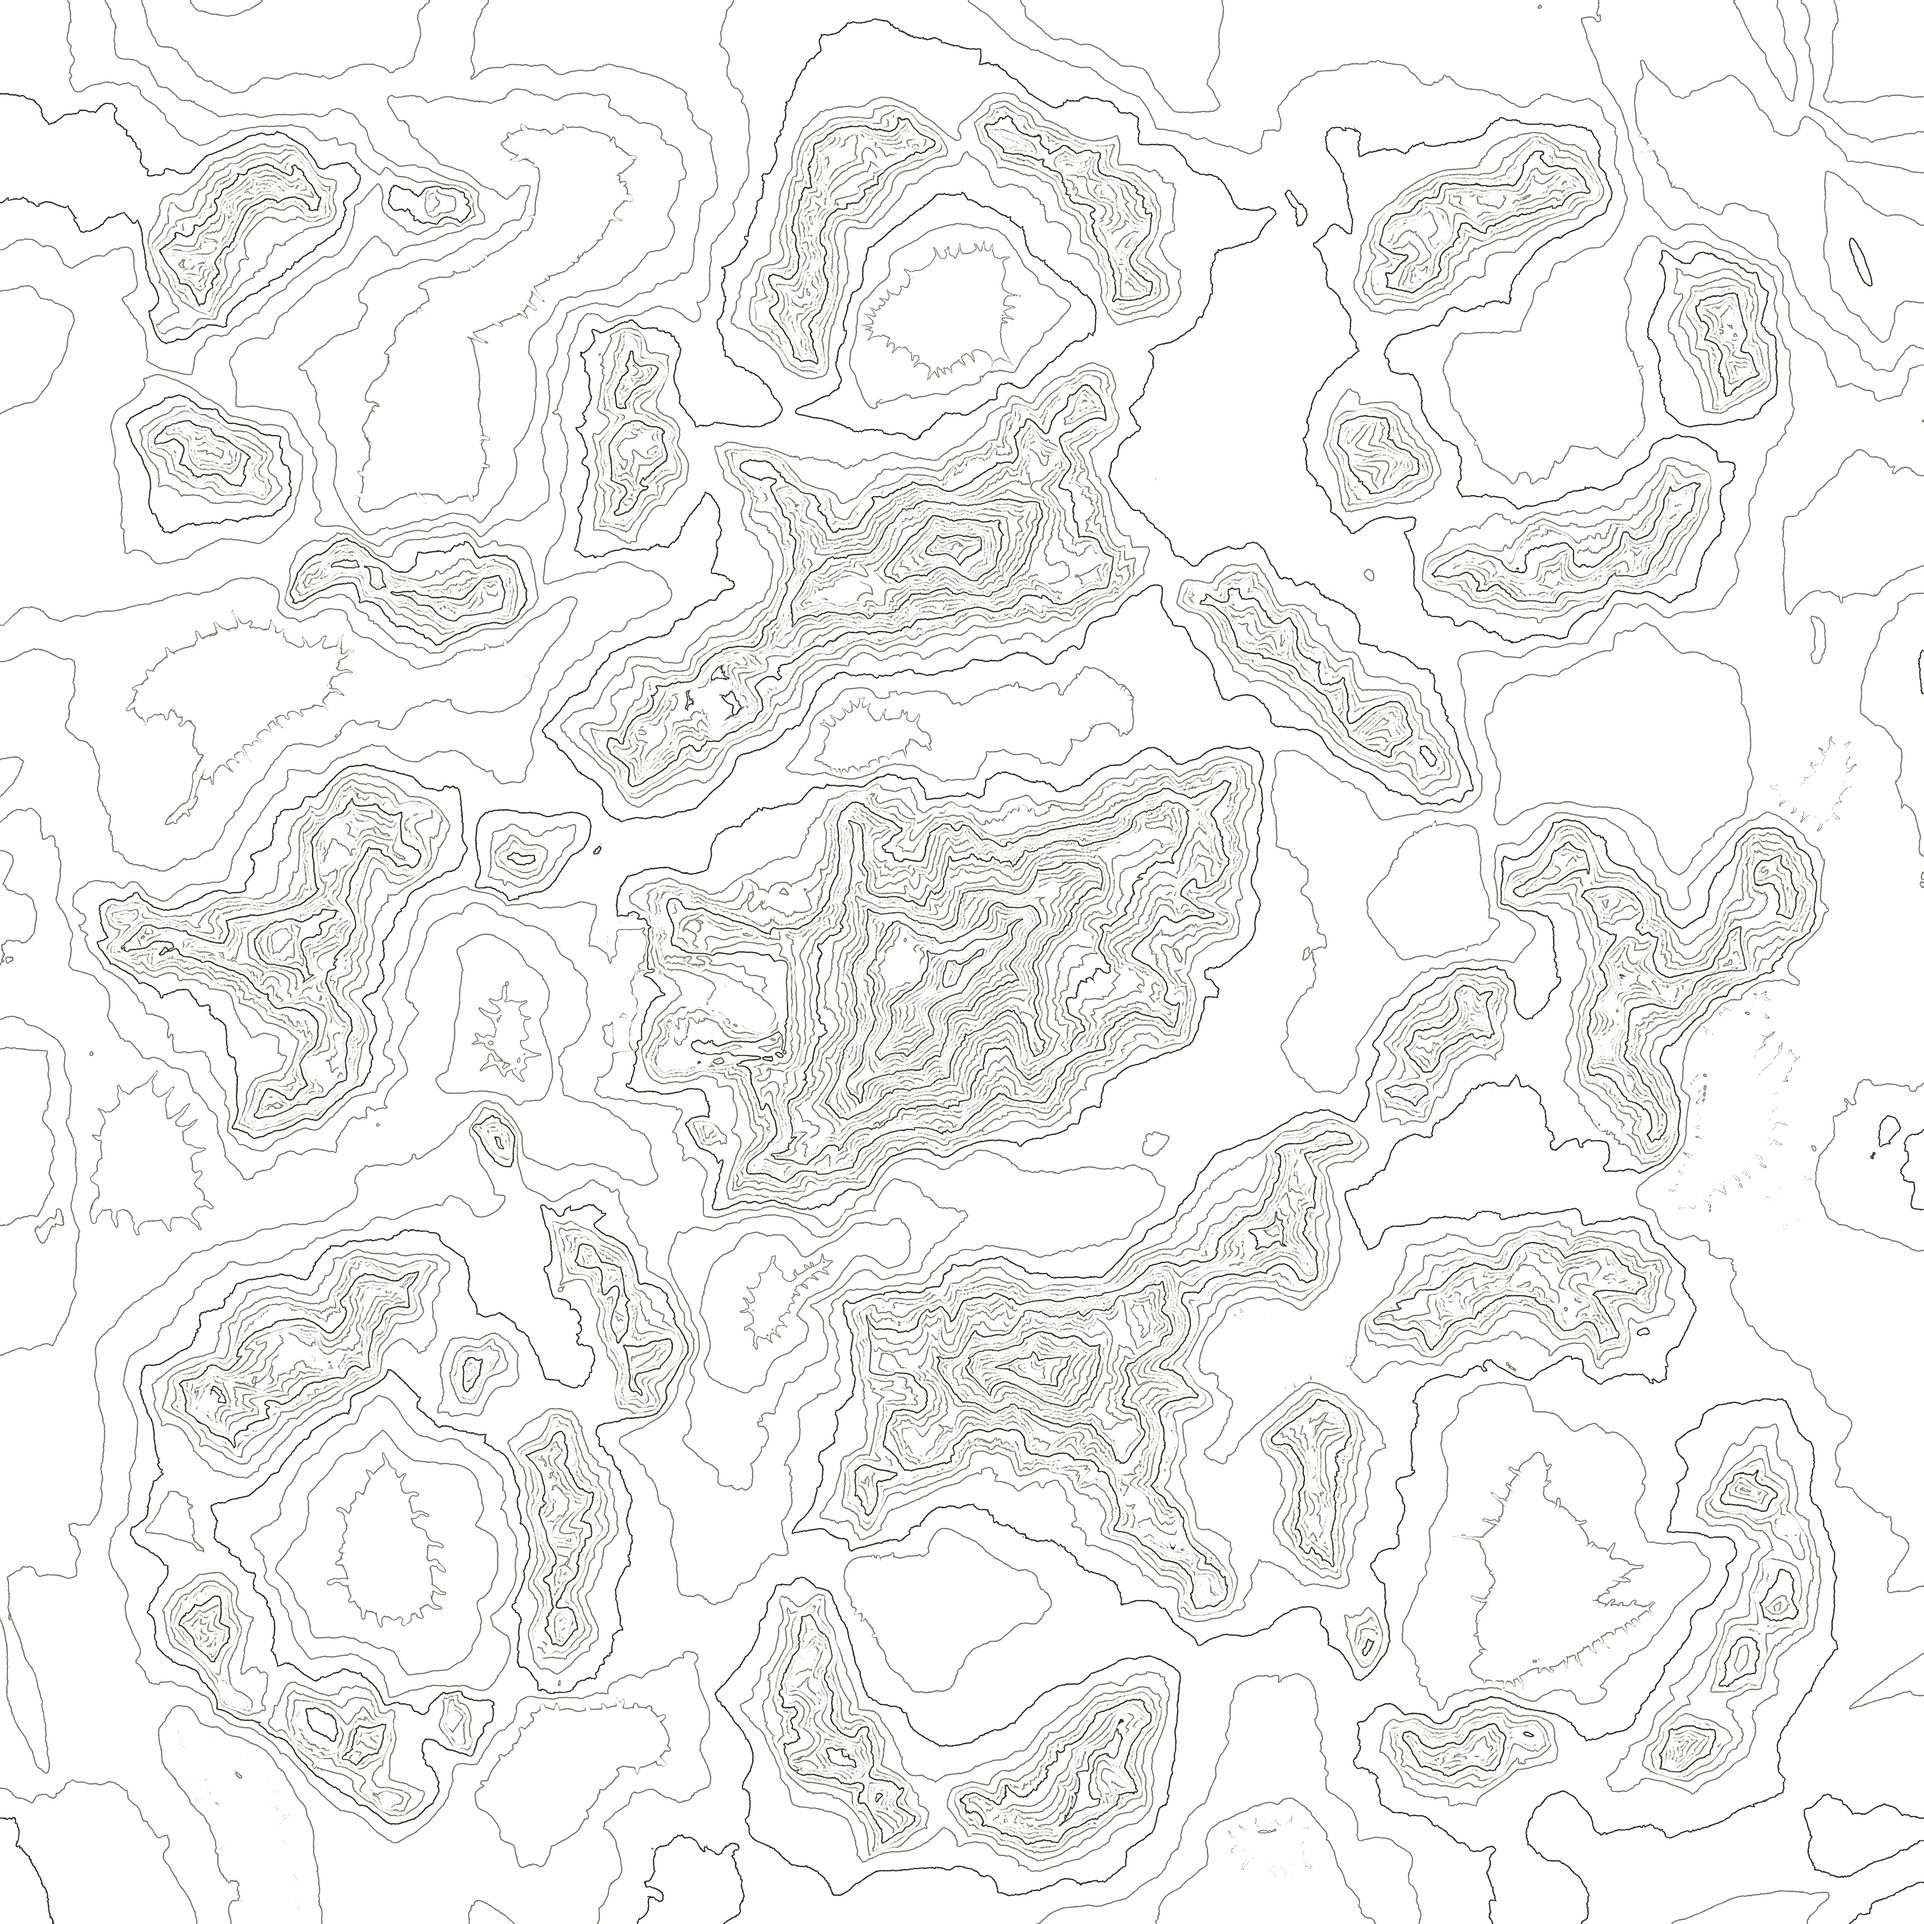
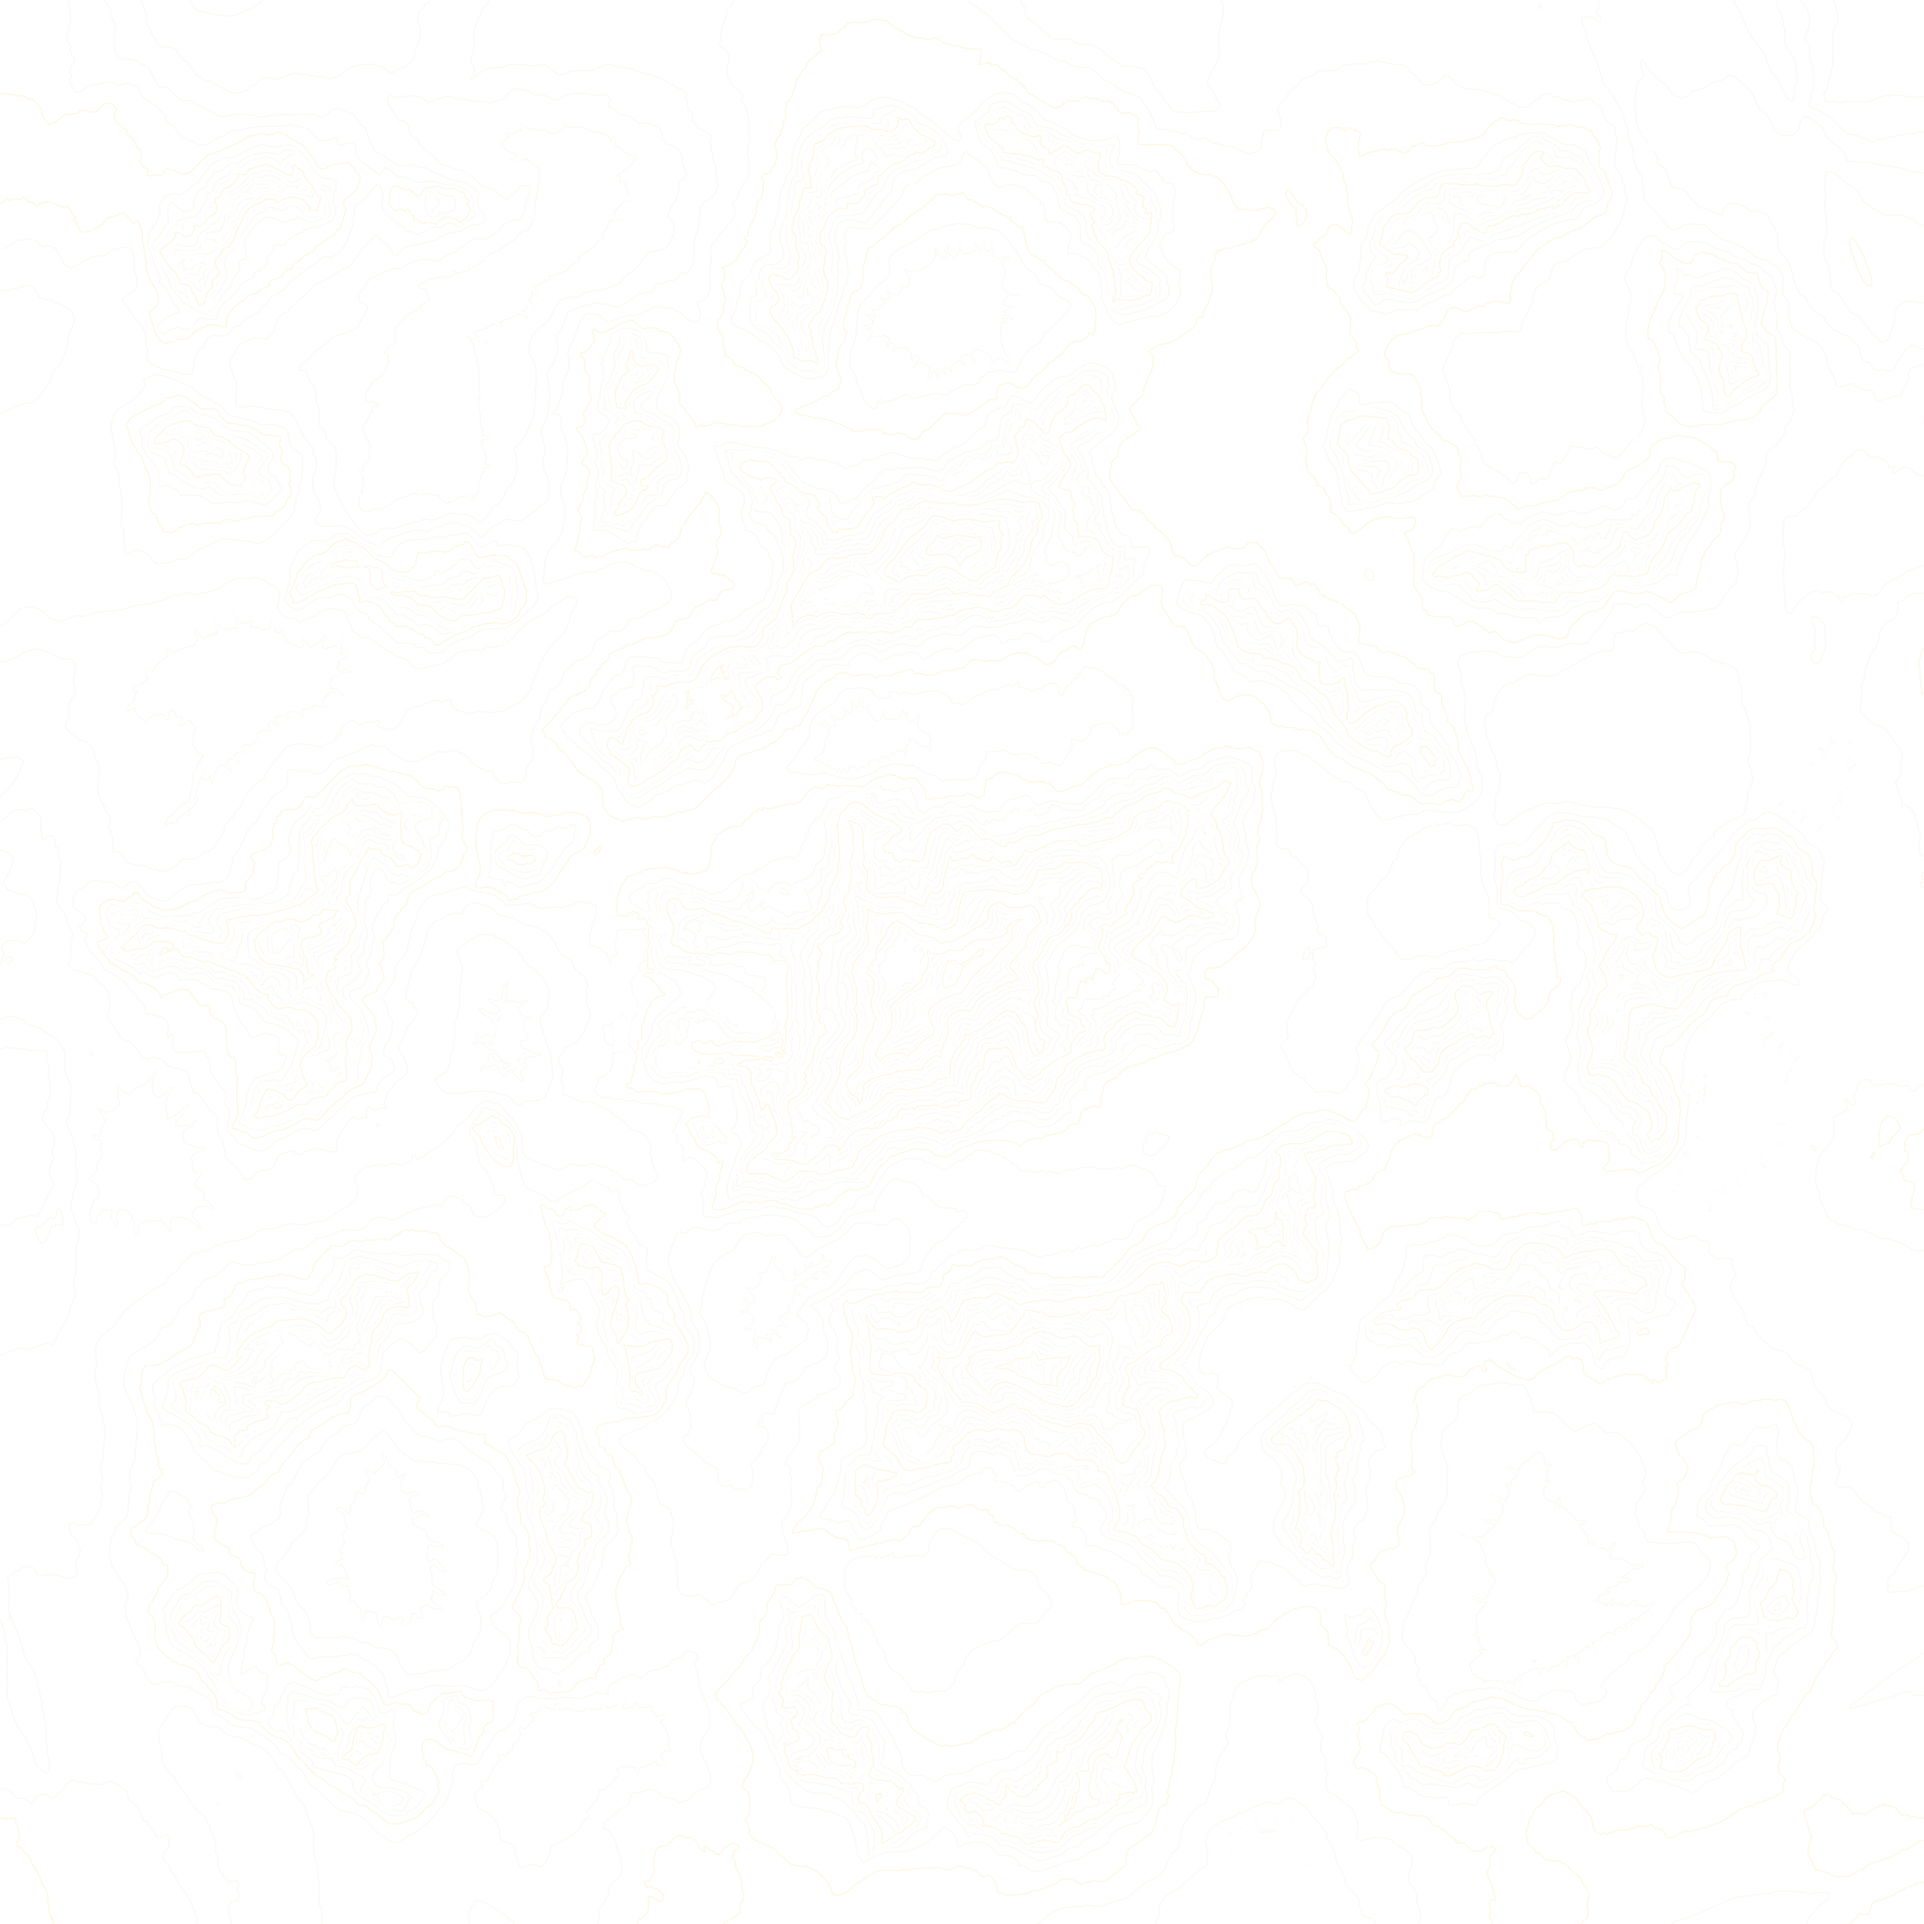
Contours: light lines so they read on the dark map textures

diff --git a/contours.py b/contours.py
@@ -43,8 +43,10 @@ CONTOUR_INTERVAL = 5.0       # metres between lines
 CONTOUR_MAJOR_EVERY = 5      # every 5th line is a major line (25 m)
 CONTOUR_WIDTH = 2.5          # line width in pixels (minor and major)
 CONTOUR_MIN_PIXELS = 5.0     # lines closer than this fade out (cliffs)
-CONTOUR_COLOR = (0.20, 0.19, 0.17, 0.70)
-CONTOUR_MAJOR_COLOR = (0.10, 0.09, 0.08, 0.85)
+# The shader's dark lines (0.20,0.19,0.17 / 0.10,0.09,0.08) vanish on the dark
+# map textures, so the overlay uses MAT_GeneratedMap's light outline colour.
+CONTOUR_COLOR = (0.96, 0.94, 0.88, 0.40)
+CONTOUR_MAJOR_COLOR = (1.00, 0.97, 0.88, 0.85)
 
 # Unity stores heights as int16 in [0, 32766] scaled by m_Scale.y.
 HEIGHT_NORM = 32766.0

diff --git a/changelog.md b/changelog.md
@@ -3,7 +3,7 @@
 ## 2026-10-29 — New map designs
 
 ### Added
-- **Terrain Contours** layer (on by default): 5 m lines, every 25 m a major line, like the new in-game map. The game draws these at runtime with a shader, so they are rendered here from the client's terrain heightmaps by the new `contours.py` (UnityPy, uses the shader's MAT_MapContourWorld settings) into `data/contours/*.png`
+- **Terrain Contours** layer (on by default): 5 m lines, every 25 m a major line, like the new in-game map, drawn in light lines because the game's dark ones vanish on the dark map textures. The game draws these at runtime with a shader, so they are rendered here from the client's terrain heightmaps by the new `contours.py` (UnityPy, uses the shader's MAT_MapContourWorld settings) into `data/contours/*.png`
 
 ### Changed
 - Map images re-exported from the updated game assets (MapReplay `assets.pak`): new grey line-art style for CrimsonPeak, GreatErg, NarakaCity, NorthPolarCap, TheMaw, Citadel, IndustrialQuarter; Badlands, BlackIsle, CrystalChasm, MonumentValley, RiftBasin, WhisperingPlains unchanged
